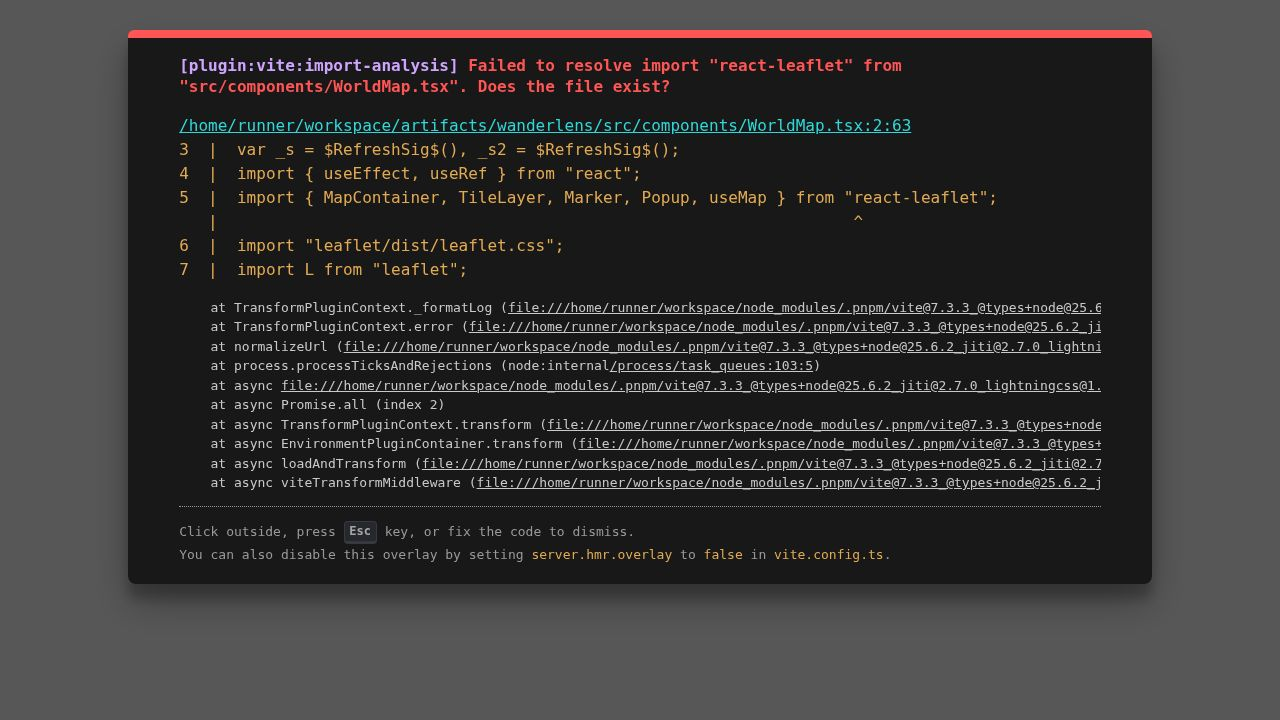
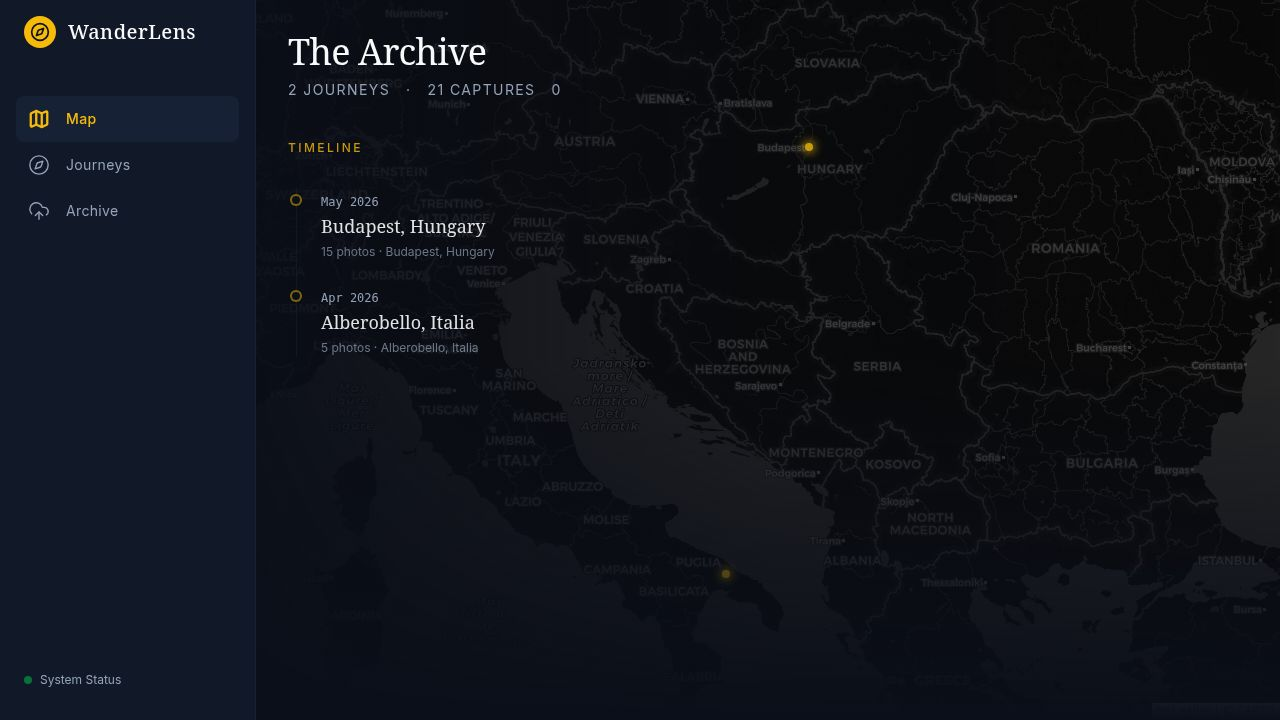
Integrate Cloudinary for optimized image delivery and storage
Implement Cloudinary integration for photo uploads, storage, and optimized delivery using Cloudinary's transformation URLs, replacing local file serving.

Replit-Commit-Author: Agent
Replit-Commit-Session-Id: 51fb5f49-2485-4e9a-8a01-23a1d011055b
Replit-Commit-Checkpoint-Type: full_checkpoint
Replit-Commit-Event-Id: 6412a799-2f6b-4c41-a2d1-ce2928e1ca3e
Replit-Commit-Screenshot-Url: https://storage.googleapis.com/screenshot-production-us-central1/5a11e4c5-3d8e-4e5e-a315-41b96257e68e/51fb5f49-2485-4e9a-8a01-23a1d011055b/G4MGdbn
Replit-Helium-Checkpoint-Created: true

diff --git a/artifacts/wanderlens/src/lib/photoUrl.ts b/artifacts/wanderlens/src/lib/photoUrl.ts
@@ -1,0 +1,70 @@
+/**
+ * Resolve the best URL for a photo.
+ *
+ * - If the photo has a Cloudinary URL, build an optimised delivery URL via
+ *   Cloudinary's on-the-fly transformations (auto format + quality, optional resize).
+ * - Otherwise fall back to the local `/api/photos/file/:filename` endpoint.
+ *
+ * Cloudinary transformation docs:
+ *   https://cloudinary.com/documentation/image_transformations
+ */
+
+type PhotoLike = {
+  cloudinaryUrl?: string | null;
+  cloudinaryPublicId?: string | null;
+  filename: string;
+};
+
+/**
+ * Returns an optimised Cloudinary URL or a local fallback URL.
+ *
+ * @param photo   Photo record (needs cloudinaryUrl / cloudinaryPublicId / filename)
+ * @param width   Optional target width (pixels). Cloudinary will also downscale for smaller screens.
+ */
+export function photoUrl(photo: PhotoLike, width?: number): string {
+  if (photo.cloudinaryUrl) {
+    // Re-write the Cloudinary URL to inject transformation parameters.
+    // The raw URL looks like:
+    //   https://res.cloudinary.com/<cloud>/image/upload/<public_id>.ext
+    // We insert `/f_auto,q_auto[,w_<width>]` after `/upload/`.
+    const transforms = width
+      ? `f_auto,q_auto,w_${width},c_limit`
+      : `f_auto,q_auto`;
+    return photo.cloudinaryUrl.replace(
+      /\/upload\//,
+      `/upload/${transforms}/`
+    );
+  }
+
+  // Fallback: served locally
+  return `/api/photos/file/${photo.filename}`;
+}
+
+/**
+ * Convenience: thumbnail URL — small square crop, good for grids.
+ */
+export function thumbUrl(photo: PhotoLike, size = 400): string {
+  if (photo.cloudinaryUrl) {
+    return photo.cloudinaryUrl.replace(
+      /\/upload\//,
+      `/upload/f_auto,q_auto,w_${size},h_${size},c_fill/`
+    );
+  }
+  return `/api/photos/file/${photo.filename}`;
+}
+
+/**
+ * Cover/hero URL — wide crop optimised for banners.
+ */
+export function coverUrl(photo: PhotoLike | null | undefined, fallbackFilename?: string): string {
+  const filename = fallbackFilename ?? (photo as PhotoLike | null)?.filename ?? "";
+  if (!photo && !fallbackFilename) return "";
+
+  if (photo?.cloudinaryUrl) {
+    return photo.cloudinaryUrl.replace(
+      /\/upload\//,
+      `/upload/f_auto,q_auto,w_1600,c_limit/`
+    );
+  }
+  return `/api/photos/file/${filename}`;
+}

diff --git a/artifacts/api-server/src/lib/cloudinary.ts b/artifacts/api-server/src/lib/cloudinary.ts
@@ -1,0 +1,64 @@
+import { v2 as cloudinary } from "cloudinary";
+import { logger } from "./logger";
+
+cloudinary.config({
+  cloud_name: process.env.CLOUDINARY_CLOUD_NAME,
+  api_key: process.env.CLOUDINARY_API_KEY,
+  api_secret: process.env.CLOUDINARY_API_SECRET,
+  secure: true,
+});
+
+export async function uploadToCloudinary(filePath: string, folder = "wanderlens"): Promise<{
+  publicId: string;
+  secureUrl: string;
+  width: number | null;
+  height: number | null;
+}> {
+  const result = await cloudinary.uploader.upload(filePath, {
+    folder,
+    resource_type: "image",
+    use_filename: false,
+    unique_filename: true,
+    overwrite: false,
+    quality: "auto",
+    fetch_format: "auto",
+  });
+
+  logger.info({ publicId: result.public_id, url: result.secure_url }, "Uploaded to Cloudinary");
+
+  return {
+    publicId: result.public_id,
+    secureUrl: result.secure_url,
+    width: result.width ?? null,
+    height: result.height ?? null,
+  };
+}
+
+export async function deleteFromCloudinary(publicId: string): Promise<void> {
+  try {
+    await cloudinary.uploader.destroy(publicId);
+    logger.info({ publicId }, "Deleted from Cloudinary");
+  } catch (err) {
+    logger.warn({ err, publicId }, "Failed to delete from Cloudinary");
+  }
+}
+
+/**
+ * Build an optimised Cloudinary URL for a given display width.
+ * Uses automatic format + quality, and crops to fill the requested size.
+ */
+export function cloudinaryUrl(publicId: string, opts: {
+  width?: number;
+  height?: number;
+  crop?: string;
+  quality?: string | number;
+} = {}): string {
+  return cloudinary.url(publicId, {
+    secure: true,
+    fetch_format: "auto",
+    quality: opts.quality ?? "auto",
+    ...(opts.width ? { width: opts.width } : {}),
+    ...(opts.height ? { height: opts.height } : {}),
+    ...(opts.crop ? { crop: opts.crop } : {}),
+  });
+}

diff --git a/artifacts/api-server/src/routes/photos.ts b/artifacts/api-server/src/routes/photos.ts
@@ -15,6 +15,7 @@ import {
 } from "@workspace/api-zod";
 import { logger } from "../lib/logger";
 import { assignPhotoToTrip, regroupAllPhotos } from "../lib/tripGrouping";
+import { uploadToCloudinary, deleteFromCloudinary } from "../lib/cloudinary";
 
 const router: IRouter = Router();
 
@@ -188,7 +189,7 @@ router.post(
       }
     }
 
-    // Compute SHA-256 hash of final file for deduplication
+    // Compute SHA-256 hash for deduplication
     const fileHash = crypto
       .createHash("sha256")
       .update(fs.readFileSync(actualPath))
@@ -201,14 +202,33 @@ router.post(
       .where(eq(photosTable.fileHash, fileHash));
 
     if (existing) {
-      // Remove the newly uploaded file — it's a duplicate
       try { fs.unlinkSync(actualPath); } catch (_e) {}
       req.log.info({ photoId: existing.id, fileHash }, "Duplicate photo ignored");
       res.status(201).json(GetPhotoResponse.parse(serializePhoto(existing)));
       return;
     }
 
+    // Extract EXIF before uploading (needs local file)
     const exif = await extractExif(actualPath);
+
+    // Upload to Cloudinary
+    let cloudinaryPublicId: string | null = null;
+    let cloudinaryUrl: string | null = null;
+    let cdnWidth = exif.width;
+    let cdnHeight = exif.height;
+
+    try {
+      const cdn = await uploadToCloudinary(actualPath);
+      cloudinaryPublicId = cdn.publicId;
+      cloudinaryUrl = cdn.secureUrl;
+      if (cdn.width) cdnWidth = cdn.width;
+      if (cdn.height) cdnHeight = cdn.height;
+      // Remove local file after successful Cloudinary upload
+      try { fs.unlinkSync(actualPath); } catch (_e) {}
+    } catch (err) {
+      logger.warn({ err }, "Cloudinary upload failed, keeping local file as fallback");
+    }
+
     const filename = path.basename(actualPath);
 
     const [photo] = await db
@@ -216,12 +236,14 @@ router.post(
       .values({
         filename,
         originalName: file.originalname,
-        filePath: actualPath,
+        filePath: cloudinaryUrl ?? actualPath,
         mimeType: actualMime,
-        fileSize: fs.statSync(actualPath).size,
+        fileSize: fs.existsSync(actualPath) ? fs.statSync(actualPath).size : file.size,
         fileHash,
-        width: exif.width,
-        height: exif.height,
+        cloudinaryPublicId,
+        cloudinaryUrl,
+        width: cdnWidth,
+        height: cdnHeight,
         lat: exif.lat,
         lng: exif.lng,
         altitude: exif.altitude,
@@ -243,11 +265,12 @@ router.post(
       photo.tripId = tripId;
     }
 
-    req.log.info({ photoId: photo.id, tripId }, "Photo uploaded");
+    req.log.info({ photoId: photo.id, tripId, cloudinaryPublicId }, "Photo uploaded");
     res.status(201).json(GetPhotoResponse.parse(serializePhoto(photo)));
   }
 );
 
+// Serve local files (fallback for photos uploaded before Cloudinary)
 router.get("/photos/file/:filename", async (req, res): Promise<void> => {
   const raw = Array.isArray(req.params.filename) ? req.params.filename[0] : req.params.filename;
   const filename = path.basename(raw);
@@ -311,12 +334,18 @@ router.delete("/photos/:id", async (req, res): Promise<void> => {
     }
   }
 
-  try {
-    if (photo.filePath && fs.existsSync(photo.filePath)) {
-      fs.unlinkSync(photo.filePath);
+  // Delete from Cloudinary if stored there
+  if (photo.cloudinaryPublicId) {
+    await deleteFromCloudinary(photo.cloudinaryPublicId);
+  } else {
+    // Fallback: delete local file
+    try {
+      if (photo.filePath && fs.existsSync(photo.filePath)) {
+        fs.unlinkSync(photo.filePath);
+      }
+    } catch (err) {
+      logger.warn({ err }, "Could not delete local file");
     }
-  } catch (err) {
-    logger.warn({ err }, "Could not delete file");
   }
 
   res.sendStatus(204);

diff --git a/artifacts/wanderlens/src/pages/TripDetail.tsx b/artifacts/wanderlens/src/pages/TripDetail.tsx
@@ -21,6 +21,7 @@ import {
   ContextMenuItem,
   ContextMenuTrigger,
 } from "@/components/ui/context-menu";
+import { photoUrl, thumbUrl } from "@/lib/photoUrl";
 
 type Photo = {
   id: number;
@@ -36,6 +37,8 @@ type Photo = {
   height: number | null;
   mimeType: string;
   filePath: string;
+  cloudinaryUrl?: string | null;
+  cloudinaryPublicId?: string | null;
 };
 
 function Lightbox({
@@ -108,7 +111,7 @@ function Lightbox({
             initial={{ opacity: 0, scale: 0.97 }}
             animate={{ opacity: 1, scale: 1 }}
             transition={{ duration: 0.2 }}
-            src={`/api/photos/file/${photo.filename}`}
+            src={photoUrl(photo)}
             alt={photo.originalName}
             className="max-w-[90vw] max-h-[90vh] object-contain select-none rounded"
             onClick={(e) => e.stopPropagation()}
@@ -201,7 +204,7 @@ export default function TripDetail() {
   if (!trip) return <div className="p-8 text-muted-foreground">Trip not found.</div>;
 
   const coverUrl = trip.coverPhotoPath
-    ? `/api/photos/file/${trip.coverPhotoPath.split("/").pop()}`
+    ? thumbUrl({ cloudinaryUrl: (trip as any).coverCloudinaryUrl ?? null, filename: trip.coverPhotoPath.split("/").pop() ?? "" }, 1600)
     : null;
 
   const photoList = (photos ?? []) as Photo[];
@@ -313,7 +316,7 @@ export default function TripDetail() {
                     data-testid={`photo-grid-item-${photo.id}`}
                   >
                     <img
-                      src={`/api/photos/file/${photo.filename}`}
+                      src={thumbUrl(photo, 400)}
                       alt={photo.originalName}
                       className="w-full h-full object-cover transition-transform duration-700 group-hover:scale-105"
                       loading="lazy"

diff --git a/artifacts/wanderlens/src/pages/Trips.tsx b/artifacts/wanderlens/src/pages/Trips.tsx
@@ -3,6 +3,7 @@ import { motion } from "framer-motion";
 import { Link } from "wouter";
 import { format } from "date-fns";
 import { MapPin } from "lucide-react";
+import { thumbUrl } from "@/lib/photoUrl";
 
 export default function Trips() {
   const { data: trips, isLoading } = useListTrips({ query: { queryKey: getListTripsQueryKey() }});
@@ -46,7 +47,10 @@ export default function Trips() {
         ) : (
           <div className="grid grid-cols-1 md:grid-cols-2 lg:grid-cols-3 gap-6 auto-rows-[300px]">
             {trips?.map((trip, i) => {
-              const coverUrl = trip.coverPhotoPath ? `/api/photos/file/${trip.coverPhotoPath.split('/').pop()}` : null;
+              const url = trip.coverPhotoPath
+                ? thumbUrl({ cloudinaryUrl: (trip as any).coverCloudinaryUrl ?? null, filename: trip.coverPhotoPath.split('/').pop() ?? '' }, 800)
+                : null;
+              const coverUrl = url;
               
               // Variable heights for a masonry-ish feel
               const isLarge = i % 5 === 0;

diff --git a/artifacts/wanderlens/src/components/WorldMap.tsx b/artifacts/wanderlens/src/components/WorldMap.tsx
@@ -4,6 +4,7 @@ import "leaflet/dist/leaflet.css";
 import L from "leaflet";
 import { TripMapPin } from "@workspace/api-client-react";
 import { Link } from "wouter";
+import { thumbUrl } from "@/lib/photoUrl";
 
 interface WorldMapProps {
   pins: TripMapPin[];
@@ -75,7 +76,7 @@ export function WorldMap({ pins, className = "w-full h-full" }: WorldMapProps) {
                   {pin.coverPhotoPath && (
                      <div className="w-full h-24 overflow-hidden rounded-md">
                        <img 
-                         src={`/api/photos/file/${pin.coverPhotoPath.split('/').pop()}`} 
+                         src={thumbUrl({ cloudinaryUrl: (pin as any).coverCloudinaryUrl ?? null, filename: pin.coverPhotoPath?.split('/').pop() ?? '' }, 300)}
                          alt={pin.name}
                          className="w-full h-full object-cover transition-transform duration-700 group-hover:scale-110"
                        />

diff --git a/lib/db/src/schema/photos.ts b/lib/db/src/schema/photos.ts
@@ -10,6 +10,8 @@ export const photosTable = pgTable("photos", {
   mimeType: text("mime_type").notNull(),
   fileSize: integer("file_size").notNull(),
   fileHash: text("file_hash"),
+  cloudinaryPublicId: text("cloudinary_public_id"),
+  cloudinaryUrl: text("cloudinary_url"),
   width: integer("width"),
   height: integer("height"),
   lat: real("lat"),